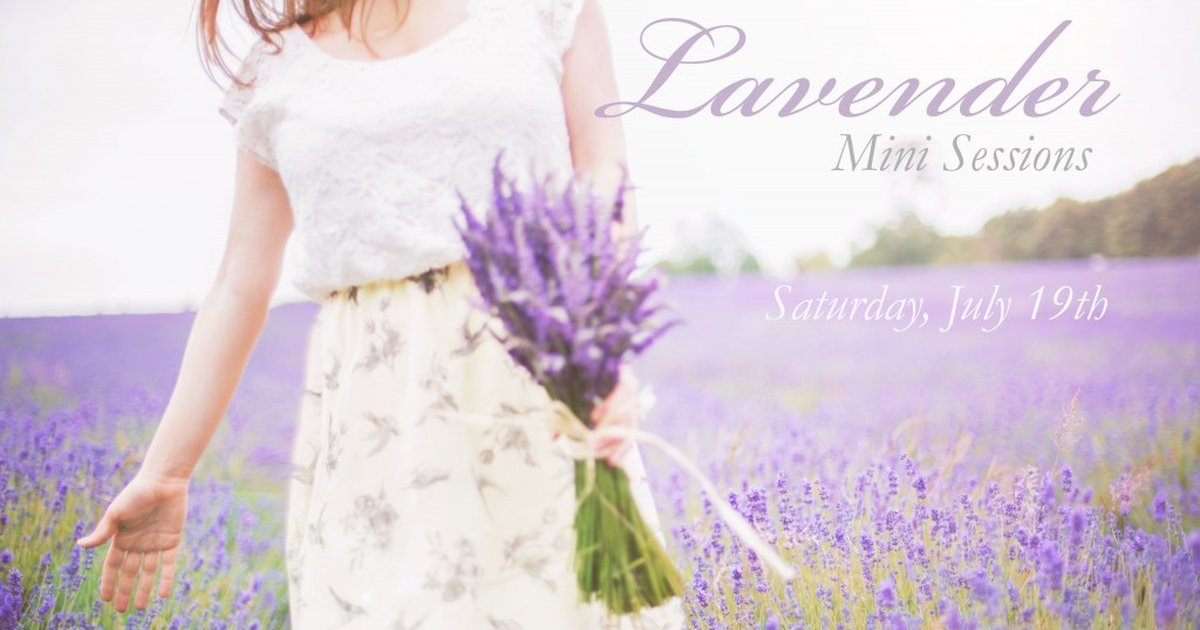
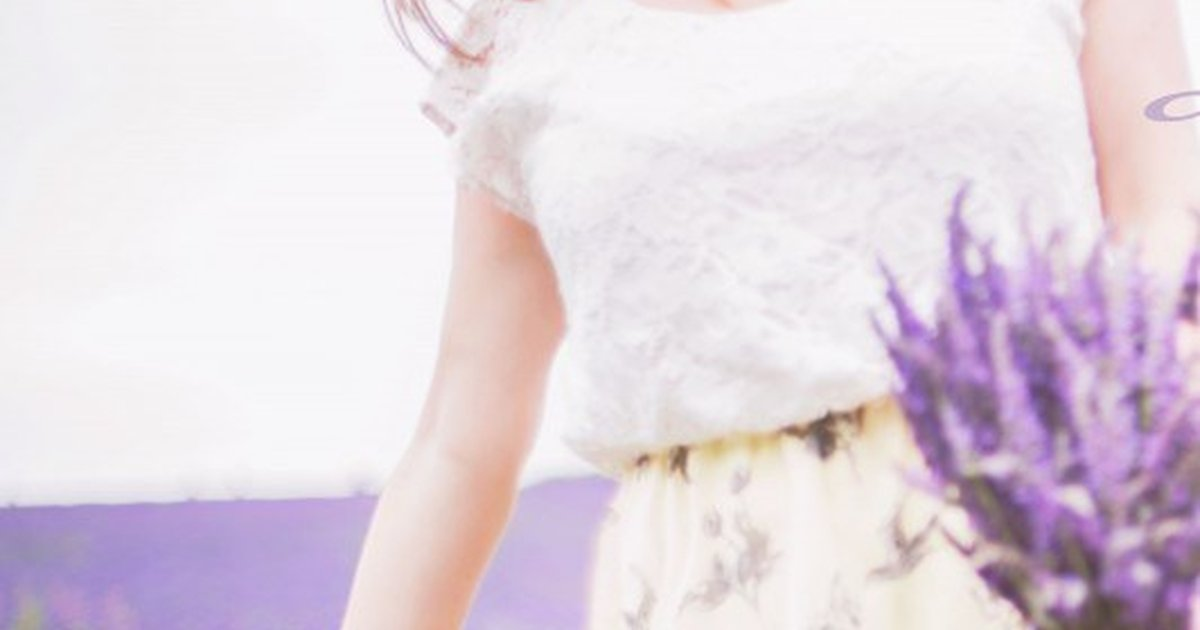
Fix 3 flagged covers + add pricing to Enquire
Covers (from the audit_post_heroes sweep):
- london-lavender-photo-sessions: replaced the 'Lavender Mini Sessions' promo
  title-card with a clean crop of the actual lavender-field photo (text cropped
  off); dropped the flyer graphics from the gallery.
- santorini-elopement-photos: replaced a mis-assigned bride-back shot with the
  blue-domed-church Santorini couple (photo-32), consistent with the gallery.
- london-family-photography-blog-circle-summer: had no hero — added a summer
  wildflower portrait (photo-52).

Enquire page: added pricing line — Weddings from GBP6,000 / Family sessions
from GBP2,000.

diff --git a/blog/london-family-photography-blog-circle-summer.html b/blog/london-family-photography-blog-circle-summer.html
@@ -16,10 +16,10 @@
   <meta property="og:title" content="London Summer Family Photography Session · Amy Fanton" />
   <meta property="og:description" content="Ok guys–So I’ve just joined a blog circle with a group of photographer friends! For those of you who aren’t familiar with what a blog circle is, each…" />
   <meta property="og:url" content="https://www.fantonphotography.com/blog/london-family-photography-blog-circle-summer.html" />
-  <meta property="og:image" content="https://www.fantonphotography.com/images/og/home.jpg" />
+  <meta property="og:image" content="https://www.fantonphotography.com/images/og/london-family-photography-blog-circle-summer.jpg" />
   <meta name="twitter:card" content="summary_large_image" />
   <meta name="twitter:title" content="London Summer Family Photography Session · Amy Fanton" />
-  <meta name="twitter:image" content="https://www.fantonphotography.com/images/og/home.jpg" />
+  <meta name="twitter:image" content="https://www.fantonphotography.com/images/og/london-family-photography-blog-circle-summer.jpg" />
   <link rel="preconnect" href="https://fonts.googleapis.com" />
   <link rel="preconnect" href="https://fonts.gstatic.com" crossorigin />
   <link href="https://fonts.googleapis.com/css2?family=Allura&family=Open+Sans:ital,wght@0,300;0,400;0,500;0,600;0,700;1,400&family=Theano+Didot&display=swap" rel="stylesheet" />
@@ -38,7 +38,7 @@
     </div>
   </header>
 
-  <script type="application/ld+json">{"@context": "https://schema.org", "@type": "Article", "headline": "London Summer Family Photography Session", "image": "https://www.fantonphotography.com/images/og/home.jpg", "description": "Ok guys\u2013So I\u2019ve just joined a blog circle with a group of photographer friends! For those of you who aren\u2019t familiar with what a blog circle is, each\u2026", "author": {"@type": "Organization", "name": "Amy Fanton Photography", "logo": {"@type": "ImageObject", "url": "https://www.fantonphotography.com/icon-512.png"}}, "publisher": {"@type": "Organization", "name": "Amy Fanton Photography", "logo": {"@type": "ImageObject", "url": "https://www.fantonphotography.com/icon-512.png"}}, "mainEntityOfPage": "https://www.fantonphotography.com/blog/london-family-photography-blog-circle-summer.html", "datePublished": "2014-07-22"}</script>
+  <script type="application/ld+json">{"@context": "https://schema.org", "@type": "Article", "headline": "London Summer Family Photography Session", "image": "https://www.fantonphotography.com/images/og/london-family-photography-blog-circle-summer.jpg", "description": "Ok guys\u2013So I\u2019ve just joined a blog circle with a group of photographer friends! For those of you who aren\u2019t familiar with what a blog circle is, each\u2026", "author": {"@type": "Organization", "name": "Amy Fanton Photography", "logo": {"@type": "ImageObject", "url": "https://www.fantonphotography.com/icon-512.png"}}, "publisher": {"@type": "Organization", "name": "Amy Fanton Photography", "logo": {"@type": "ImageObject", "url": "https://www.fantonphotography.com/icon-512.png"}}, "mainEntityOfPage": "https://www.fantonphotography.com/blog/london-family-photography-blog-circle-summer.html", "datePublished": "2014-07-22"}</script>
     <script type="application/ld+json">{"@context": "https://schema.org", "@type": "BreadcrumbList", "itemListElement": [{"@type": "ListItem", "position": 1, "name": "Home", "item": "https://www.fantonphotography.com/"}, {"@type": "ListItem", "position": 2, "name": "Journal", "item": "https://www.fantonphotography.com/blog/index.html"}, {"@type": "ListItem", "position": 3, "name": "London Summer Family Photography Session", "item": "https://www.fantonphotography.com/blog/london-family-photography-blog-circle-summer.html"}]}</script>
   <article class="post">
     <header class="post-head">
@@ -46,7 +46,7 @@
       <h1 class="post-title">London Summer Family Photography Session</h1>
       <p class="post-date">22 July 2014</p>
     </header>
-    
+    <div class="post-hero"><img src="../images/blog/london-family-photography-blog-circle-summer.jpg" width="2048" height="1365" alt="London Summer Family Photography Session" /></div>
     <div class="post-body">
         <p>Ok guys–So I’ve just joined a blog circle with a group of photographer friends! For those of you who aren’t familiar with what a blog circle is, each month we will all be posting an image in response to a theme along with a link to another photographer’s interpretation of the same theme, so as a reader you can circle through all of our blogs simply by clicking through the links in each person’s post.</p>
         <p>And what summer would be complete with out a family field trip to a farm for some strawberry picking???!! Although I live in a big city, there is no doubt I’m a country girl at heart and this weekend I rallied the troops for a little country excursion and a mini summer family photography session. After picking strawberries we also made our way to fields of blackberries, raspberries, gooseberries, carrots and sunflowers!</p>
@@ -54,7 +54,7 @@
         <p>You can have a peek at the talented Emily Supiot of CozyClicks Photography’s summer blog post here: CozyClicks Summer Post</p>
         <p>To book your London summer family photography session please email me at amy@fantonphotography.com or call me on 07462907790</p>
     </div>
-    <div class="post-share"><span class="post-share-label">Share this story</span><div class="share-row"><a class="share-btn" href="https://pinterest.com/pin/create/button/?url=https%3A%2F%2Fwww.fantonphotography.com%2Fblog%2Flondon-family-photography-blog-circle-summer.html&media=https%3A%2F%2Fwww.fantonphotography.com%2Fimages%2Fog%2Fhome.jpg&description=London%20Summer%20Family%20Photography%20Session" target="_blank" rel="noopener" aria-label="Pin on Pinterest"><svg viewBox="0 0 24 24" width="18" height="18" aria-hidden="true"><path d="M12 2C6.48 2 2 6.48 2 12c0 4.24 2.64 7.86 6.36 9.32-.09-.79-.17-2.01.03-2.88.18-.78 1.17-4.97 1.17-4.97s-.3-.6-.3-1.48c0-1.39.81-2.43 1.81-2.43.85 0 1.27.64 1.27 1.41 0 .86-.55 2.14-.83 3.33-.24 1 .5 1.81 1.48 1.81 1.78 0 3.14-1.88 3.14-4.58 0-2.39-1.72-4.07-4.18-4.07-2.85 0-4.52 2.13-4.52 4.34 0 .86.33 1.78.74 2.28.08.1.09.19.07.29-.08.32-.25 1-.28 1.14-.04.18-.15.22-.34.13-1.25-.58-2.03-2.4-2.03-3.87 0-3.15 2.29-6.04 6.6-6.04 3.46 0 6.16 2.47 6.16 5.77 0 3.44-2.17 6.21-5.18 6.21-1.01 0-1.97-.53-2.29-1.15l-.62 2.37c-.23.86-.83 1.95-1.24 2.61.93.29 1.92.44 2.95.44 5.52 0 10-4.48 10-10S17.52 2 12 2z"/></svg></a><a class="share-btn" href="https://www.facebook.com/sharer/sharer.php?u=https%3A%2F%2Fwww.fantonphotography.com%2Fblog%2Flondon-family-photography-blog-circle-summer.html" target="_blank" rel="noopener" aria-label="Share on Facebook"><svg viewBox="0 0 24 24" width="18" height="18" aria-hidden="true"><path d="M22 12.06C22 6.5 17.52 2 12 2S2 6.5 2 12.06c0 5 3.66 9.15 8.44 9.94v-7.03H7.9v-2.9h2.54V9.85c0-2.5 1.49-3.89 3.78-3.89 1.09 0 2.23.2 2.23.2v2.46h-1.26c-1.24 0-1.63.77-1.63 1.56v1.87h2.78l-.44 2.9h-2.34V22c4.78-.79 8.44-4.94 8.44-9.94z"/></svg></a><a class="share-btn" href="https://wa.me/?text=London%20Summer%20Family%20Photography%20Session%20https%3A%2F%2Fwww.fantonphotography.com%2Fblog%2Flondon-family-photography-blog-circle-summer.html" target="_blank" rel="noopener" aria-label="Share on WhatsApp"><svg viewBox="0 0 24 24" width="18" height="18" aria-hidden="true"><path d="M.057 24l1.687-6.163a11.87 11.87 0 0 1-1.587-5.946C.16 5.335 5.495 0 12.05 0a11.82 11.82 0 0 1 8.413 3.488 11.82 11.82 0 0 1 3.48 8.414c-.003 6.557-5.338 11.892-11.893 11.892a11.9 11.9 0 0 1-5.688-1.448L.057 24zm6.597-3.807c1.676.995 3.276 1.591 5.392 1.592 5.448 0 9.886-4.434 9.889-9.885.002-5.462-4.415-9.89-9.881-9.892-5.452 0-9.887 4.434-9.889 9.884a9.86 9.86 0 0 0 1.51 5.26l-.999 3.648 3.629-.95zm11.387-5.464c-.074-.124-.272-.198-.57-.347-.297-.149-1.758-.868-2.031-.967-.272-.099-.47-.149-.669.149-.198.297-.768.967-.941 1.165-.173.198-.347.223-.644.074-.297-.149-1.255-.462-2.39-1.475-.883-.788-1.48-1.761-1.653-2.059-.173-.297-.018-.458.13-.606.134-.133.297-.347.446-.521.151-.172.2-.296.3-.495.099-.198.05-.372-.025-.521-.075-.148-.669-1.611-.916-2.206-.242-.579-.487-.501-.669-.51l-.57-.01c-.198 0-.52.074-.792.372s-1.04 1.016-1.04 2.479 1.065 2.876 1.213 3.074c.149.198 2.095 3.2 5.076 4.487.709.306 1.263.489 1.694.626.712.226 1.36.194 1.872.118.571-.085 1.758-.719 2.006-1.413.248-.695.248-1.29.173-1.414z"/></svg></a><a class="share-btn" href="mailto:?subject=London%20Summer%20Family%20Photography%20Session&body=https%3A%2F%2Fwww.fantonphotography.com%2Fblog%2Flondon-family-photography-blog-circle-summer.html" aria-label="Share by email"><svg viewBox="0 0 24 24" width="18" height="18" aria-hidden="true"><path d="M3 5h18a1 1 0 0 1 1 1v12a1 1 0 0 1-1 1H3a1 1 0 0 1-1-1V6a1 1 0 0 1 1-1zm9 6.2 8-5.2H4l8 5.2zM4 8.1V18h16V8.1l-8 5.2-8-5.2z"/></svg></a><button class="share-btn share-copy" type="button" data-url="https://www.fantonphotography.com/blog/london-family-photography-blog-circle-summer.html" aria-label="Copy link"><svg viewBox="0 0 24 24" width="18" height="18" aria-hidden="true"><path d="M3.9 12a3.1 3.1 0 0 1 3.1-3.1h4V7H7a5 5 0 0 0 0 10h4v-1.9H7A3.1 3.1 0 0 1 3.9 12zM9 13h6v-2H9v2zm8-6h-4v1.9h4a3.1 3.1 0 0 1 0 6.2h-4V17h4a5 5 0 0 0 0-10z"/></svg></button></div></div>
+    <div class="post-share"><span class="post-share-label">Share this story</span><div class="share-row"><a class="share-btn" href="https://pinterest.com/pin/create/button/?url=https%3A%2F%2Fwww.fantonphotography.com%2Fblog%2Flondon-family-photography-blog-circle-summer.html&media=https%3A%2F%2Fwww.fantonphotography.com%2Fimages%2Fog%2Flondon-family-photography-blog-circle-summer.jpg&description=London%20Summer%20Family%20Photography%20Session" target="_blank" rel="noopener" aria-label="Pin on Pinterest"><svg viewBox="0 0 24 24" width="18" height="18" aria-hidden="true"><path d="M12 2C6.48 2 2 6.48 2 12c0 4.24 2.64 7.86 6.36 9.32-.09-.79-.17-2.01.03-2.88.18-.78 1.17-4.97 1.17-4.97s-.3-.6-.3-1.48c0-1.39.81-2.43 1.81-2.43.85 0 1.27.64 1.27 1.41 0 .86-.55 2.14-.83 3.33-.24 1 .5 1.81 1.48 1.81 1.78 0 3.14-1.88 3.14-4.58 0-2.39-1.72-4.07-4.18-4.07-2.85 0-4.52 2.13-4.52 4.34 0 .86.33 1.78.74 2.28.08.1.09.19.07.29-.08.32-.25 1-.28 1.14-.04.18-.15.22-.34.13-1.25-.58-2.03-2.4-2.03-3.87 0-3.15 2.29-6.04 6.6-6.04 3.46 0 6.16 2.47 6.16 5.77 0 3.44-2.17 6.21-5.18 6.21-1.01 0-1.97-.53-2.29-1.15l-.62 2.37c-.23.86-.83 1.95-1.24 2.61.93.29 1.92.44 2.95.44 5.52 0 10-4.48 10-10S17.52 2 12 2z"/></svg></a><a class="share-btn" href="https://www.facebook.com/sharer/sharer.php?u=https%3A%2F%2Fwww.fantonphotography.com%2Fblog%2Flondon-family-photography-blog-circle-summer.html" target="_blank" rel="noopener" aria-label="Share on Facebook"><svg viewBox="0 0 24 24" width="18" height="18" aria-hidden="true"><path d="M22 12.06C22 6.5 17.52 2 12 2S2 6.5 2 12.06c0 5 3.66 9.15 8.44 9.94v-7.03H7.9v-2.9h2.54V9.85c0-2.5 1.49-3.89 3.78-3.89 1.09 0 2.23.2 2.23.2v2.46h-1.26c-1.24 0-1.63.77-1.63 1.56v1.87h2.78l-.44 2.9h-2.34V22c4.78-.79 8.44-4.94 8.44-9.94z"/></svg></a><a class="share-btn" href="https://wa.me/?text=London%20Summer%20Family%20Photography%20Session%20https%3A%2F%2Fwww.fantonphotography.com%2Fblog%2Flondon-family-photography-blog-circle-summer.html" target="_blank" rel="noopener" aria-label="Share on WhatsApp"><svg viewBox="0 0 24 24" width="18" height="18" aria-hidden="true"><path d="M.057 24l1.687-6.163a11.87 11.87 0 0 1-1.587-5.946C.16 5.335 5.495 0 12.05 0a11.82 11.82 0 0 1 8.413 3.488 11.82 11.82 0 0 1 3.48 8.414c-.003 6.557-5.338 11.892-11.893 11.892a11.9 11.9 0 0 1-5.688-1.448L.057 24zm6.597-3.807c1.676.995 3.276 1.591 5.392 1.592 5.448 0 9.886-4.434 9.889-9.885.002-5.462-4.415-9.89-9.881-9.892-5.452 0-9.887 4.434-9.889 9.884a9.86 9.86 0 0 0 1.51 5.26l-.999 3.648 3.629-.95zm11.387-5.464c-.074-.124-.272-.198-.57-.347-.297-.149-1.758-.868-2.031-.967-.272-.099-.47-.149-.669.149-.198.297-.768.967-.941 1.165-.173.198-.347.223-.644.074-.297-.149-1.255-.462-2.39-1.475-.883-.788-1.48-1.761-1.653-2.059-.173-.297-.018-.458.13-.606.134-.133.297-.347.446-.521.151-.172.2-.296.3-.495.099-.198.05-.372-.025-.521-.075-.148-.669-1.611-.916-2.206-.242-.579-.487-.501-.669-.51l-.57-.01c-.198 0-.52.074-.792.372s-1.04 1.016-1.04 2.479 1.065 2.876 1.213 3.074c.149.198 2.095 3.2 5.076 4.487.709.306 1.263.489 1.694.626.712.226 1.36.194 1.872.118.571-.085 1.758-.719 2.006-1.413.248-.695.248-1.29.173-1.414z"/></svg></a><a class="share-btn" href="mailto:?subject=London%20Summer%20Family%20Photography%20Session&body=https%3A%2F%2Fwww.fantonphotography.com%2Fblog%2Flondon-family-photography-blog-circle-summer.html" aria-label="Share by email"><svg viewBox="0 0 24 24" width="18" height="18" aria-hidden="true"><path d="M3 5h18a1 1 0 0 1 1 1v12a1 1 0 0 1-1 1H3a1 1 0 0 1-1-1V6a1 1 0 0 1 1-1zm9 6.2 8-5.2H4l8 5.2zM4 8.1V18h16V8.1l-8 5.2-8-5.2z"/></svg></a><button class="share-btn share-copy" type="button" data-url="https://www.fantonphotography.com/blog/london-family-photography-blog-circle-summer.html" aria-label="Copy link"><svg viewBox="0 0 24 24" width="18" height="18" aria-hidden="true"><path d="M3.9 12a3.1 3.1 0 0 1 3.1-3.1h4V7H7a5 5 0 0 0 0 10h4v-1.9H7A3.1 3.1 0 0 1 3.9 12zM9 13h6v-2H9v2zm8-6h-4v1.9h4a3.1 3.1 0 0 1 0 6.2h-4V17h4a5 5 0 0 0 0-10z"/></svg></button></div></div>
     <p class="post-back"><a href="index.html">&larr; Back to the Portfolio</a></p>
   </article>
 

diff --git a/blog/london-lavender-photo-sessions.html b/blog/london-lavender-photo-sessions.html
@@ -46,17 +46,13 @@
       <h1 class="post-title">London Lavender Photo Sessions</h1>
       <p class="post-date">16 July 2014</p>
     </header>
-    <div class="post-hero"><img src="../images/blog/gallery/london-lavender-photo-sessions/00.jpg" width="1024" height="682" alt="London Lavender Photo Sessions" /></div>
+    <div class="post-hero"><img src="../images/blog/london-lavender-photo-sessions.jpg" width="532" height="682" alt="London Lavender Photo Sessions" /></div>
     <div class="post-body">
         <p>I don’t hold mini sessions often so I’m very excited to share such a special offer for some London Lavender Photo Sessions! The sessions will take place at a beautiful Lavender farm about 15 miles outside of London amongst a landscape that will transport you to what seems like scenery from the Wizard of Oz.</p>
         <p>This is the perfect location for couples, families, children, babies, maternity–yes i just listed pretty much all the different types of work I do because this place is nothing short of GORGEOUS and will make for some stunning images whichever way you cut it. Did I mention it smells absolutely heavenly?</p>
         <p>And as a bonus there is an adorable Lavender farm shop that sells an array of Lavender products including fresh Lavender tea, Lavender scones, biscuits, creams, lotions, soaps and bouquets (among many other things!). I’m only offering 6 sessions so get them while they last!! PS. tag yourself or a friend who might be interested in the comments of the facebook post and bump your print credit up to £75! ( www.facebook.com/fantonphotography )n+</p>
         <p>Lavender Mini Sessions £175 25 minute session Online Gallery of 8-10 images Print credit of £50</p>
     </div>
-      <div class="post-gallery gallery">
-        <div class="gallery-item"><img src="../images/blog/gallery/london-lavender-photo-sessions/00.jpg" width="1024" height="682" alt="London Lavender Photo Sessions — photograph by Amy Fanton" loading="lazy" /></div>
-        <div class="gallery-item"><img src="../images/blog/gallery/london-lavender-photo-sessions/01.jpg" width="2048" height="1365" alt="London Lavender Photo Sessions — photograph by Amy Fanton" loading="lazy" /></div>
-      </div>
     <div class="post-share"><span class="post-share-label">Share this story</span><div class="share-row"><a class="share-btn" href="https://pinterest.com/pin/create/button/?url=https%3A%2F%2Fwww.fantonphotography.com%2Fblog%2Flondon-lavender-photo-sessions.html&media=https%3A%2F%2Fwww.fantonphotography.com%2Fimages%2Fog%2Flondon-lavender-photo-sessions.jpg&description=London%20Lavender%20Photo%20Sessions" target="_blank" rel="noopener" aria-label="Pin on Pinterest"><svg viewBox="0 0 24 24" width="18" height="18" aria-hidden="true"><path d="M12 2C6.48 2 2 6.48 2 12c0 4.24 2.64 7.86 6.36 9.32-.09-.79-.17-2.01.03-2.88.18-.78 1.17-4.97 1.17-4.97s-.3-.6-.3-1.48c0-1.39.81-2.43 1.81-2.43.85 0 1.27.64 1.27 1.41 0 .86-.55 2.14-.83 3.33-.24 1 .5 1.81 1.48 1.81 1.78 0 3.14-1.88 3.14-4.58 0-2.39-1.72-4.07-4.18-4.07-2.85 0-4.52 2.13-4.52 4.34 0 .86.33 1.78.74 2.28.08.1.09.19.07.29-.08.32-.25 1-.28 1.14-.04.18-.15.22-.34.13-1.25-.58-2.03-2.4-2.03-3.87 0-3.15 2.29-6.04 6.6-6.04 3.46 0 6.16 2.47 6.16 5.77 0 3.44-2.17 6.21-5.18 6.21-1.01 0-1.97-.53-2.29-1.15l-.62 2.37c-.23.86-.83 1.95-1.24 2.61.93.29 1.92.44 2.95.44 5.52 0 10-4.48 10-10S17.52 2 12 2z"/></svg></a><a class="share-btn" href="https://www.facebook.com/sharer/sharer.php?u=https%3A%2F%2Fwww.fantonphotography.com%2Fblog%2Flondon-lavender-photo-sessions.html" target="_blank" rel="noopener" aria-label="Share on Facebook"><svg viewBox="0 0 24 24" width="18" height="18" aria-hidden="true"><path d="M22 12.06C22 6.5 17.52 2 12 2S2 6.5 2 12.06c0 5 3.66 9.15 8.44 9.94v-7.03H7.9v-2.9h2.54V9.85c0-2.5 1.49-3.89 3.78-3.89 1.09 0 2.23.2 2.23.2v2.46h-1.26c-1.24 0-1.63.77-1.63 1.56v1.87h2.78l-.44 2.9h-2.34V22c4.78-.79 8.44-4.94 8.44-9.94z"/></svg></a><a class="share-btn" href="https://wa.me/?text=London%20Lavender%20Photo%20Sessions%20https%3A%2F%2Fwww.fantonphotography.com%2Fblog%2Flondon-lavender-photo-sessions.html" target="_blank" rel="noopener" aria-label="Share on WhatsApp"><svg viewBox="0 0 24 24" width="18" height="18" aria-hidden="true"><path d="M.057 24l1.687-6.163a11.87 11.87 0 0 1-1.587-5.946C.16 5.335 5.495 0 12.05 0a11.82 11.82 0 0 1 8.413 3.488 11.82 11.82 0 0 1 3.48 8.414c-.003 6.557-5.338 11.892-11.893 11.892a11.9 11.9 0 0 1-5.688-1.448L.057 24zm6.597-3.807c1.676.995 3.276 1.591 5.392 1.592 5.448 0 9.886-4.434 9.889-9.885.002-5.462-4.415-9.89-9.881-9.892-5.452 0-9.887 4.434-9.889 9.884a9.86 9.86 0 0 0 1.51 5.26l-.999 3.648 3.629-.95zm11.387-5.464c-.074-.124-.272-.198-.57-.347-.297-.149-1.758-.868-2.031-.967-.272-.099-.47-.149-.669.149-.198.297-.768.967-.941 1.165-.173.198-.347.223-.644.074-.297-.149-1.255-.462-2.39-1.475-.883-.788-1.48-1.761-1.653-2.059-.173-.297-.018-.458.13-.606.134-.133.297-.347.446-.521.151-.172.2-.296.3-.495.099-.198.05-.372-.025-.521-.075-.148-.669-1.611-.916-2.206-.242-.579-.487-.501-.669-.51l-.57-.01c-.198 0-.52.074-.792.372s-1.04 1.016-1.04 2.479 1.065 2.876 1.213 3.074c.149.198 2.095 3.2 5.076 4.487.709.306 1.263.489 1.694.626.712.226 1.36.194 1.872.118.571-.085 1.758-.719 2.006-1.413.248-.695.248-1.29.173-1.414z"/></svg></a><a class="share-btn" href="mailto:?subject=London%20Lavender%20Photo%20Sessions&body=https%3A%2F%2Fwww.fantonphotography.com%2Fblog%2Flondon-lavender-photo-sessions.html" aria-label="Share by email"><svg viewBox="0 0 24 24" width="18" height="18" aria-hidden="true"><path d="M3 5h18a1 1 0 0 1 1 1v12a1 1 0 0 1-1 1H3a1 1 0 0 1-1-1V6a1 1 0 0 1 1-1zm9 6.2 8-5.2H4l8 5.2zM4 8.1V18h16V8.1l-8 5.2-8-5.2z"/></svg></a><button class="share-btn share-copy" type="button" data-url="https://www.fantonphotography.com/blog/london-lavender-photo-sessions.html" aria-label="Copy link"><svg viewBox="0 0 24 24" width="18" height="18" aria-hidden="true"><path d="M3.9 12a3.1 3.1 0 0 1 3.1-3.1h4V7H7a5 5 0 0 0 0 10h4v-1.9H7A3.1 3.1 0 0 1 3.9 12zM9 13h6v-2H9v2zm8-6h-4v1.9h4a3.1 3.1 0 0 1 0 6.2h-4V17h4a5 5 0 0 0 0-10z"/></svg></button></div></div>
     <p class="post-back"><a href="index.html">&larr; Back to the Portfolio</a></p>
   </article>

diff --git a/blog/index.html b/blog/index.html
@@ -85,7 +85,7 @@
           <li><a class="pf-item" href="hyde-park-london-engagement-photo-session-london-engagement-photographer.html" data-img="../images/blog/gallery/hyde-park-london-engagement-photo-session-london-engagement-photographer/00.jpg" data-alt="Hyde Park London Engagement Photo Session">Hyde Park London Engagement Photo Session</a></li>
           <li><a class="pf-item" href="wedding-photography-thames-river.html" data-img="../images/blog/gallery/wedding-photography-thames-river/00.jpg" data-alt="Wedding Photography on HQS Wellington">Wedding Photography on HQS Wellington</a></li>
           <li><a class="pf-item" href="london-surprise-proposal-engagment-photo-session.html" data-img="../images/blog/gallery/london-surprise-proposal-engagment-photo-session/00.jpg" data-alt="London Proposal Photography in Kensington">London Proposal Photography in Kensington</a></li>
-          <li><a class="pf-item" href="london-lavender-photo-sessions.html" data-img="../images/blog/gallery/london-lavender-photo-sessions/00.jpg" data-alt="London Lavender Photo Sessions">London Lavender Photo Sessions</a></li>
+          <li><a class="pf-item" href="london-lavender-photo-sessions.html" data-img="../images/blog/london-lavender-photo-sessions.jpg" data-alt="London Lavender Photo Sessions">London Lavender Photo Sessions</a></li>
           <li><a class="pf-item" href="connecticut-travel-sessions.html" data-img="../images/blog/gallery/connecticut-travel-sessions/00.jpg" data-alt="Connecticut Travel Sessions!">Connecticut Travel Sessions!</a></li>
           <li><a class="pf-item" href="london-anniversary-photo-session.html" data-img="../images/blog/gallery/london-anniversary-photo-session/00.jpg" data-alt="London Anniversary Photo Session">London Anniversary Photo Session</a></li>
           <li><a class="pf-item" href="argentina-trip.html" data-img="../images/blog/gallery/argentina-trip/00.jpg" data-alt="Family in Pacheco Argentina">Family in Pacheco Argentina</a></li>
@@ -100,7 +100,7 @@
           <li><a class="pf-item" href="london-birthday-party-photography.html" data-img="../images/blog/gallery/london-birthday-party-photography/00.jpg" data-alt="Birthday Party Photography in London">Birthday Party Photography in London</a></li>
           <li><a class="pf-item" href="london-autumn-childrens-portrait.html" data-img="../images/blog/gallery/london-autumn-childrens-portrait/00.jpg" data-alt="Autumn in London">Autumn in London</a></li>
           <li><a class="pf-item" href="american-family-photographer-in-london.html" data-img="../images/blog/gallery/american-family-photographer-in-london/00.jpg" data-alt="An American Family in London">An American Family in London</a></li>
-          <li><a class="pf-item pf-item--nopic" href="london-family-photography-blog-circle-summer.html">London Summer Family Photography Session</a></li>
+          <li><a class="pf-item" href="london-family-photography-blog-circle-summer.html" data-img="../images/blog/london-family-photography-blog-circle-summer.jpg" data-alt="London Summer Family Photography Session">London Summer Family Photography Session</a></li>
           <li><a class="pf-item" href="london-birthday-photography.html" data-img="../images/blog/gallery/london-birthday-photography/00.jpg" data-alt="London Birthday Photography">London Birthday Photography</a></li>
           <li><a class="pf-item" href="london-childrens-portraits-toddler-ballerina.html" data-img="../images/blog/gallery/london-childrens-portraits-toddler-ballerina/00.jpg" data-alt="London Children&#x27;s Portraits">London Children&#x27;s Portraits</a></li>
           <li><a class="pf-item" href="hyde-park-maternity-shoot.html" data-img="../images/blog/hyde-park-maternity-shoot.jpg" data-alt="London Family Photography Session">London Family Photography Session</a></li>

diff --git a/blog/santorini-elopement-photos.html b/blog/santorini-elopement-photos.html
@@ -46,7 +46,7 @@
       <h1 class="post-title">A Santorini Elopement</h1>
       <p class="post-date">22 June 2017</p>
     </header>
-    <div class="post-hero"><img src="../images/blog/santorini-elopement-photos.jpg" width="900" height="1350" alt="A Santorini Elopement" /></div>
+    <div class="post-hero"><img src="../images/blog/santorini-elopement-photos.jpg" width="873" height="1310" alt="A Santorini Elopement" /></div>
     <div class="post-body">
         <p>I always feel so honoured when another photographer entrusts me with the job of documenting their special day. It means they really appreciate photography themselves, and they are almost always willing to go the extra mile to make sure their images are spectacular–whether that means waking up at sunrise to get the most beautiful light, choosing wardrobe carefully, or hiking for just a bit longer to find the perfect spot.</p>
         <p>This couple was no exception and I had a wonderful time with them when they invited me to photograph their elopement on the beautiful island of Santorini. Before the elopement, we spent a beautiful evening exploring the island together and making the most of it’s dramatic and stunning landscape. It was so nice to have the entire beach to ourselves so that the couple could freely play and connect while I photographed them together. I’ll be back in for some Santorini wedding photography in just a few months, and I’m already counting the days!</p>

diff --git a/enquire.html b/enquire.html
@@ -23,7 +23,7 @@
   <link rel="preconnect" href="https://fonts.googleapis.com" />
   <link rel="preconnect" href="https://fonts.gstatic.com" crossorigin />
   <link href="https://fonts.googleapis.com/css2?family=Allura&family=Open+Sans:ital,wght@0,300;0,400;0,500;0,600;0,700;1,400&family=Theano+Didot&display=swap" rel="stylesheet" />
-  <link rel="stylesheet" href="styles.css?v=202" />
+  <link rel="stylesheet" href="styles.css?v=203" />
   <script type="application/ld+json">
   {"@context":"https://schema.org","@type":"ContactPage","name":"Enquire — Amy Fanton Photography","url":"https://www.fantonphotography.com/enquire.html","isPartOf":{"@type":"WebSite","name":"Amy Fanton Photography","url":"https://www.fantonphotography.com/"}}
   </script>
@@ -48,6 +48,11 @@
       <p class="contact-lead">
         I take on a limited number of commissions each year so I can give every couple my
         full attention. If you love what you see, I&rsquo;d love to hear your story.
+      </p>
+      <p class="enquire-pricing">
+        <span>Weddings from <strong>&pound;6,000</strong></span>
+        <span class="sep">&middot;</span>
+        <span>Family sessions from <strong>&pound;2,000</strong></span>
       </p>
     </header>
 

diff --git a/styles.css b/styles.css
@@ -1053,3 +1053,17 @@ a { color: inherit; text-decoration: none; }
 @media (max-width: 680px) {
   .filmstrip { height: 60vh; min-height: 340px; }
 }
+
+/* ---- Enquire pricing line ---- */
+.enquire-pricing {
+  display: flex;
+  flex-wrap: wrap;
+  justify-content: center;
+  gap: 14px;
+  margin: 22px 0 0;
+  font-family: var(--serif);
+  font-size: 1.1rem;
+  color: var(--ink);
+}
+.enquire-pricing strong { font-weight: 400; color: var(--accent); }
+.enquire-pricing .sep { color: var(--line); }
